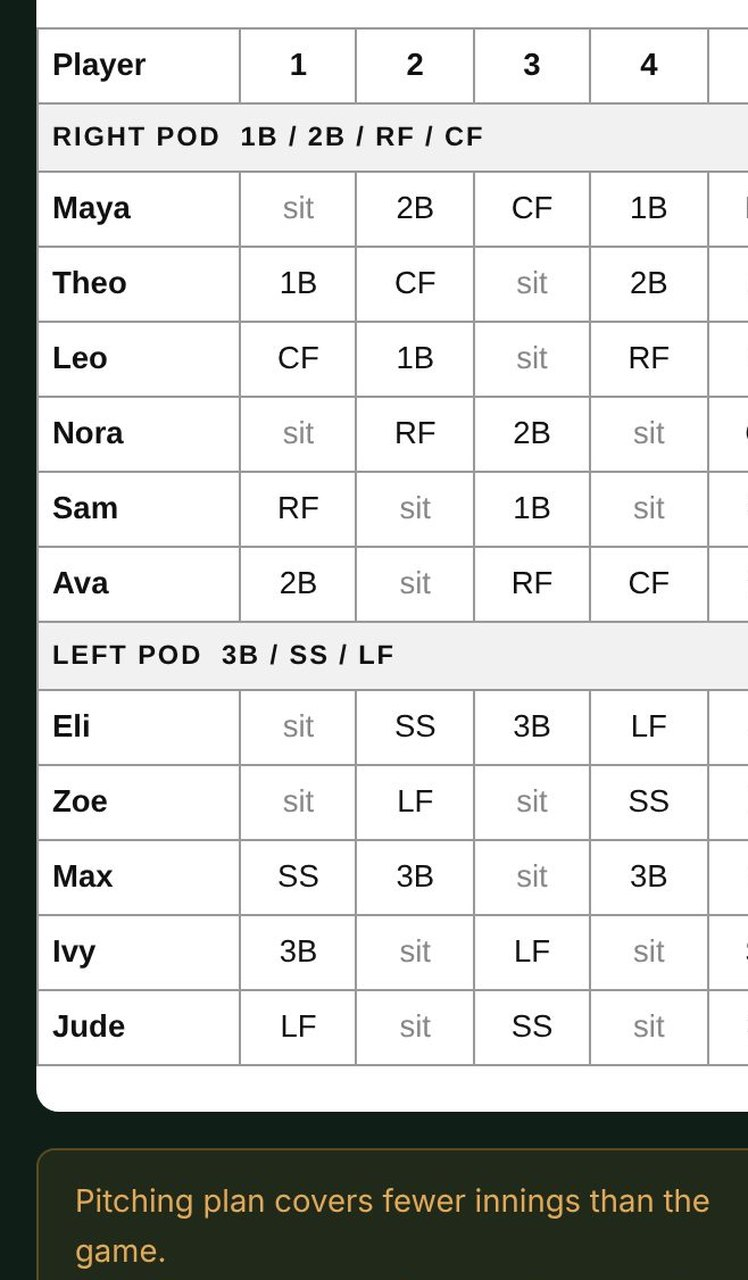
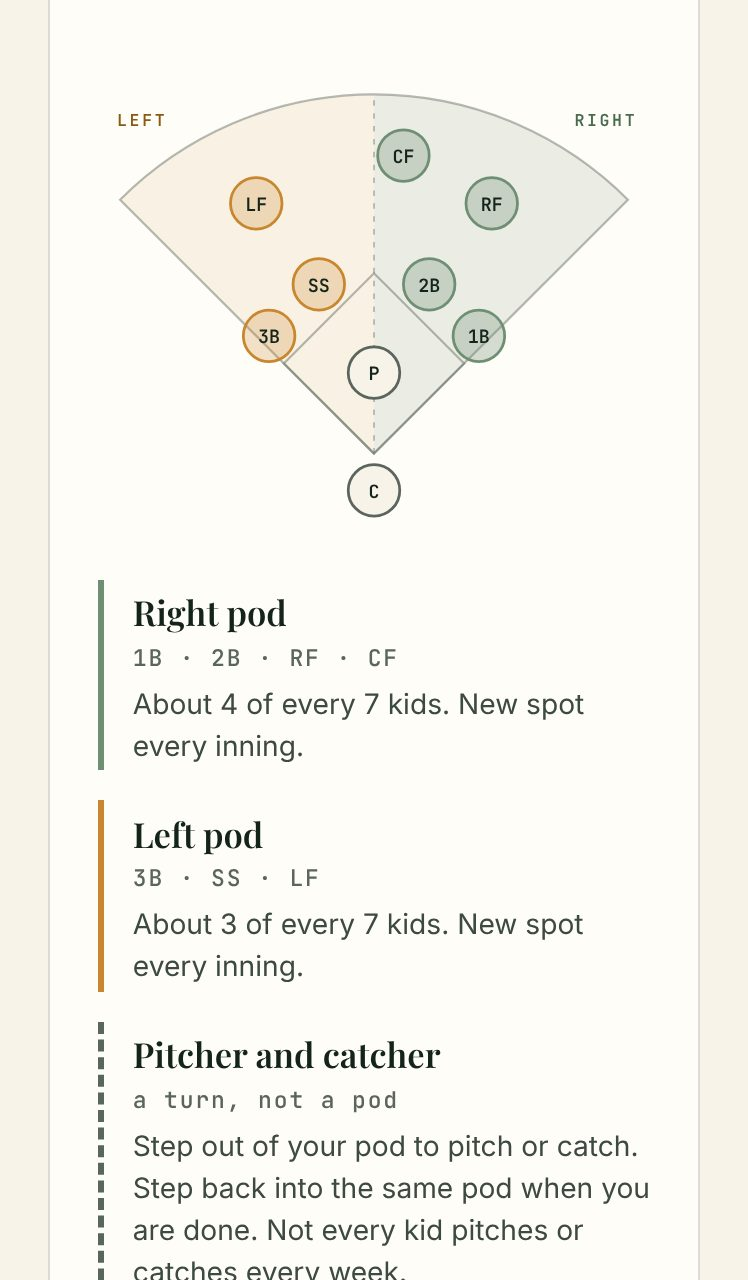
Tools page: merge On the field and Game day, shelve AR Strike Zone, Back Pocket Card to the field, pod diagram card, rename Train the athlete to Off the field
Claude-Session: https://claude.ai/code/session_01KY6Q42FzB7hikV7QYbqWLW

diff --git a/tools.html b/tools.html
@@ -54,7 +54,7 @@
 <div class="page-hero">
   <div class="page-hero-inner">
     <h1>Tools, by the moment you're in.</h1>
-    <div class="tl-jump"><a href="#field">01 On the field</a><a href="#cage">02 In the cage</a><a href="#gameday">03 Game day</a><a href="#tonight">04 Practice in a pinch</a><a href="#train">05 Train the athlete</a><a href="#you">06 For the coach</a><a href="#think">07 Think the game</a></div>
+    <div class="tl-jump"><a href="#field">01 On the field</a><a href="#cage">02 In the cage</a><a href="#tonight">03 Practice in a pinch</a><a href="#train">04 Off the field</a><a href="#think">05 Think the game</a><a href="#you">06 For the coach</a></div>
   </div>
 </div>
 <style>
@@ -73,11 +73,35 @@
         <div class="nm">Insta Measure</div>
         <div class="ds">Never pull out a tape measure again.</div>
       </a>
-      <a href="strike-zone.html" class="tcard">
-        <div class="phone"><img src="assets/tools/zone.jpg" width="748" height="1280" alt="AR Strike Zone: size the zone to your hitter, then see it over the plate" loading="lazy"></div>
-        <div class="nm">AR Strike Zone</div>
-        <div class="ds">Size it to your hitter. See it over the plate.</div>
+      <a href="lineup.html" class="tcard">
+        <div class="phone"><img src="assets/tools/lineup.jpg" width="748" height="1280" alt="Lineup Builder: a five-inning lineup with positions by inning" loading="lazy"></div>
+        <div class="nm">Lineup Builder</div>
+        <div class="ds">All-Stars and travel. Fair innings in minutes.</div>
       </a>
+      <a href="pods.html" class="tcard">
+        <div class="phone"><img src="assets/tools/pods.jpg" width="748" height="1280" alt="Pod Rotation: the field split into a left pod and a right pod" loading="lazy"></div>
+        <div class="nm">Pod Rotation</div>
+        <div class="ds">Rec ball. Split the field. Every kid, every spot.</div>
+      </a>
+      <a href="pitch-tracker.html" class="tcard">
+        <div class="phone"><img src="assets/tools/pitch.jpg" width="748" height="1280" alt="Pitch Tracker: tap ball or strike, add the location, see the count and strike percent" loading="lazy"></div>
+        <div class="nm">Pitch Tracker</div>
+        <div class="ds">Balls and strikes. Add location if you want it.</div>
+      </a>
+      <a href="h2f.html" class="tcard">
+        <div class="phone"><img src="assets/tools/h2f.jpg" width="748" height="1280" alt="Home-to-First Timer: tap a kid, start and stop, time saved to their page" loading="lazy"></div>
+        <div class="nm">Home-to-First Timer</div>
+        <div class="ds">Tap, run, stop. Every kid's own best.</div>
+      </a>
+      <a href="pocket-card.html" class="tcard">
+        <div class="phone"><img src="assets/tools/pocket.jpg" width="748" height="1280" alt="Back Pocket Card: circle the spot, draw the flight, write where you will hit it" loading="lazy"></div>
+        <div class="nm">Back Pocket Card</div>
+        <div class="ds">Where are you going to hit it? Draw it, say it, carry it.</div>
+      </a>
+    </div>
+    <div class="tmore">
+      <a href="team.html">My Team: save your roster once</a>
+      <a href="situations.html">Real situations: what to do and say</a>
     </div>
   </div>
 </div></section>
@@ -96,50 +120,13 @@
         <div class="nm">Call Your Shot</div>
         <div class="ds">Ten balls. Call it. Hit the target.</div>
       </a>
-      <a href="pocket-card.html" class="tcard">
-        <div class="phone"><span class="new">NEW</span><img src="assets/tools/pocket.jpg" width="748" height="1280" alt="Back Pocket Card: circle the spot, draw the flight, write where you will hit it" loading="lazy"></div>
-        <div class="nm">Back Pocket Card</div>
-        <div class="ds">Where are you going to hit it? Draw it, say it, carry it.</div>
-      </a>
     </div>
   </div>
 </div></section>
 
-<section class="section tl-group" id="gameday" style="padding-top:2.25rem;padding-bottom:2.25rem"><div class="container">
+<section class="section tl-group" id="tonight" style="padding-top:2.25rem;padding-bottom:2.25rem"><div class="container">
   <div class="trow">
-    <div class="trow-h"><span class="n">03</span><span class="t">Game day</span></div>
-    <div class="tcards">
-      <a href="lineup.html" class="tcard">
-        <div class="phone"><img src="assets/tools/lineup.jpg" width="748" height="1280" alt="Lineup Builder: a five-inning lineup with positions by inning" loading="lazy"></div>
-        <div class="nm">Lineup Builder</div>
-        <div class="ds">All-Stars and travel. Fair innings in minutes.</div>
-      </a>
-      <a href="pods.html" class="tcard">
-        <div class="phone"><img src="assets/tools/pods.jpg" width="748" height="1280" alt="Pod Rotation: every kid in a new spot each inning" loading="lazy"></div>
-        <div class="nm">Pod Rotation</div>
-        <div class="ds">Rec ball. Every kid, every spot.</div>
-      </a>
-      <a href="pitch-tracker.html" class="tcard">
-        <div class="phone"><img src="assets/tools/pitch.jpg" width="748" height="1280" alt="Pitch Tracker: tap ball or strike, see pitch count and strike percent" loading="lazy"></div>
-        <div class="nm">Pitch Tracker</div>
-        <div class="ds">Balls and strikes. Tap it, watch the trend.</div>
-      </a>
-      <a href="h2f.html" class="tcard">
-        <div class="phone"><img src="assets/tools/h2f.jpg" width="748" height="1280" alt="Home-to-First Timer: tap a kid, start and stop, time saved to their page" loading="lazy"></div>
-        <div class="nm">Home-to-First Timer</div>
-        <div class="ds">Tap, run, stop. Every kid's own best.</div>
-      </a>
-    </div>
-    <div class="tmore">
-      <a href="team.html">My Team: save your roster once</a>
-      <a href="situations.html">Real situations: what to do and say</a>
-    </div>
-  </div>
-</div></section>
-
-<section class="section section-white tl-group" id="tonight" style="padding-top:2.25rem;padding-bottom:2.25rem"><div class="container">
-  <div class="trow">
-    <div class="trow-h"><span class="n">04</span><span class="t">Practice in a pinch</span></div>
+    <div class="trow-h"><span class="n">03</span><span class="t">Practice in a pinch</span></div>
     <div class="tcards">
       <a href="practice.html" class="tcard">
         <div class="phone"><span class="new">NEW</span><img src="assets/tools/practice.jpg" width="748" height="1280" alt="Practice in a Pinch: a 60-minute practice built from three taps, block by block with cues" loading="lazy"></div>
@@ -166,7 +153,7 @@
 
 <section class="section section-white tl-group" id="train" style="padding-top:2.25rem;padding-bottom:2.25rem"><div class="container">
   <div class="trow">
-    <div class="trow-h"><span class="n">05</span><span class="t">Train the athlete</span><span class="w">Strength, speed, movement</span></div>
+    <div class="trow-h"><span class="n">04</span><span class="t">Off the field</span><span class="w">Strength, speed, movement at home</span></div>
     <div class="tcards">
       <a href="athlete.html" class="tcard">
         <div class="phone"><span class="new">NEW</span><img src="assets/tools/athlete.jpg" width="748" height="1280" alt="Athlete Plan: eight questions, then a weekly workout plan for one player" loading="lazy"></div>
@@ -182,9 +169,9 @@
   </div>
 </div></section>
 
-<section class="section section-white tl-group" id="think" style="padding-top:2.25rem;padding-bottom:2.25rem"><div class="container">
+<section class="section tl-group" id="think" style="padding-top:2.25rem;padding-bottom:2.25rem"><div class="container">
   <div class="trow">
-    <div class="trow-h"><span class="n">07</span><span class="t">Think the game</span><span class="w">Rainy day, car ride, couch</span></div>
+    <div class="trow-h"><span class="n">05</span><span class="t">Think the game</span><span class="w">Rainy day, car ride, couch</span></div>
     <div class="tcards">
       <a href="launch-lab.html" class="tcard">
         <div class="phone"><span class="new">NEW</span><img src="assets/tools/launchlab.jpg" width="748" height="1280" alt="Launch Lab: call the result, pick exit velocity and launch angle, watch the ball fly with real physics" loading="lazy"></div>
@@ -200,7 +187,7 @@
   </div>
 </div></section>
 
-<section class="section tl-group" id="you" style="padding-top:2.25rem;padding-bottom:2.5rem"><div class="container">
+<section class="section section-white tl-group" id="you" style="padding-top:2.25rem;padding-bottom:2.5rem"><div class="container">
   <div class="trow">
     <div class="trow-h"><span class="n">06</span><span class="t">For the coach</span></div>
     <div class="grid-3">

diff --git a/game-day.html b/game-day.html
@@ -128,14 +128,6 @@
           <span class="hub-go">Make the cards <i aria-hidden="true">&rarr;</i></span>
         </div>
       </a>
-      <a href="strike-zone.html" class="hub-card">
-        <img src="assets/tools/zone.jpg" width="748" height="1280" alt="" loading="lazy">
-        <div class="hub-body">
-          <div class="hub-name">AR Strike Zone</div>
-          <p>Size the zone to a hitter, then see it over the plate from the mound or behind it.</p>
-          <span class="hub-go">See the zone <i aria-hidden="true">&rarr;</i></span>
-        </div>
-      </a>
     </div>
   </div>
 </section>

diff --git a/.github/scripts/check_site.py b/.github/scripts/check_site.py
@@ -89,7 +89,8 @@ MOBILE_RE = re.compile(r'<div class="mobile-menu" id="mobile-menu">.*?</div>', r
 TLDR_PAGES = ['how-kids-learn.html', 'coach-dad.html']
 
 # Pages that are redirect stubs or special: no inbound link needed
-NO_INBOUND_NEEDED = {'index.html', '404.html'}
+NO_INBOUND_NEEDED = {'index.html', '404.html',
+                     'strike-zone.html'}  # shelved by Chris 2026-11-07: live by URL, unlisted
 
 # (label, regex) checked against every .html / .js / .css file
 BANNED = [
